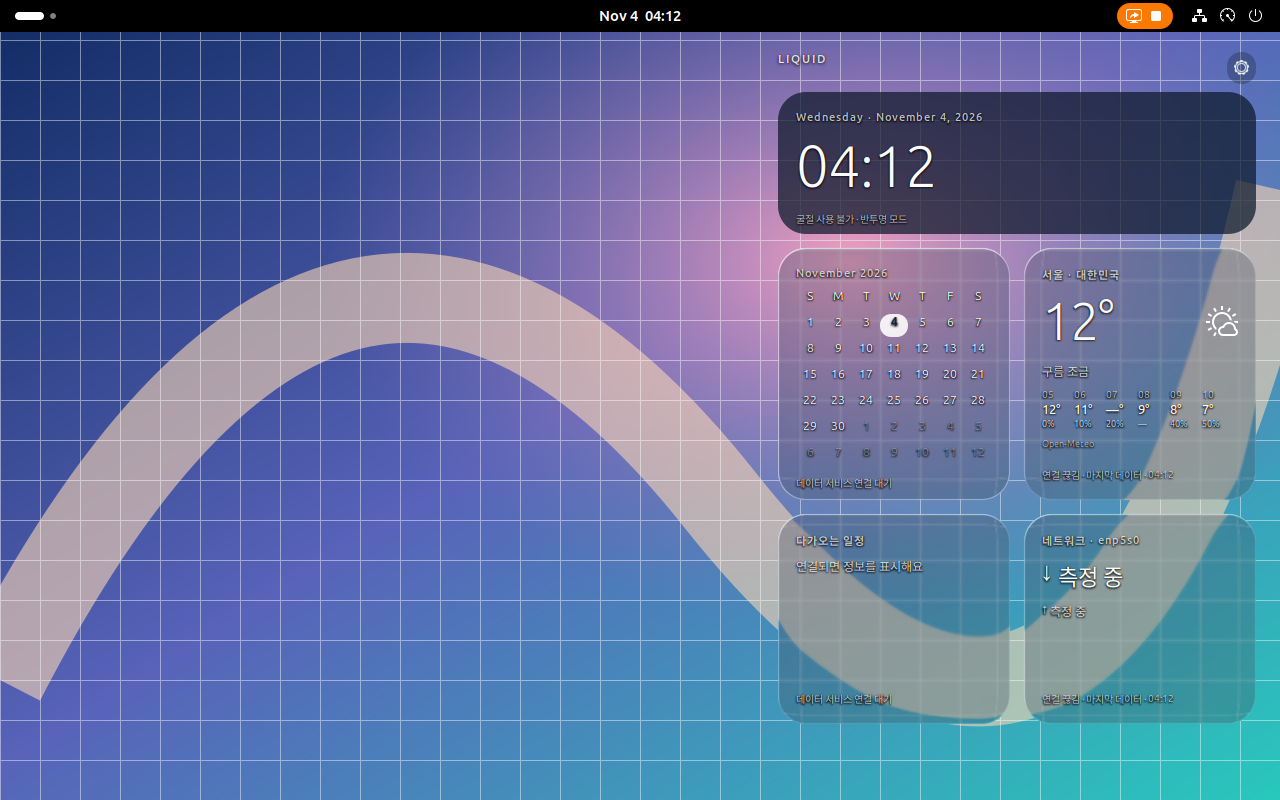
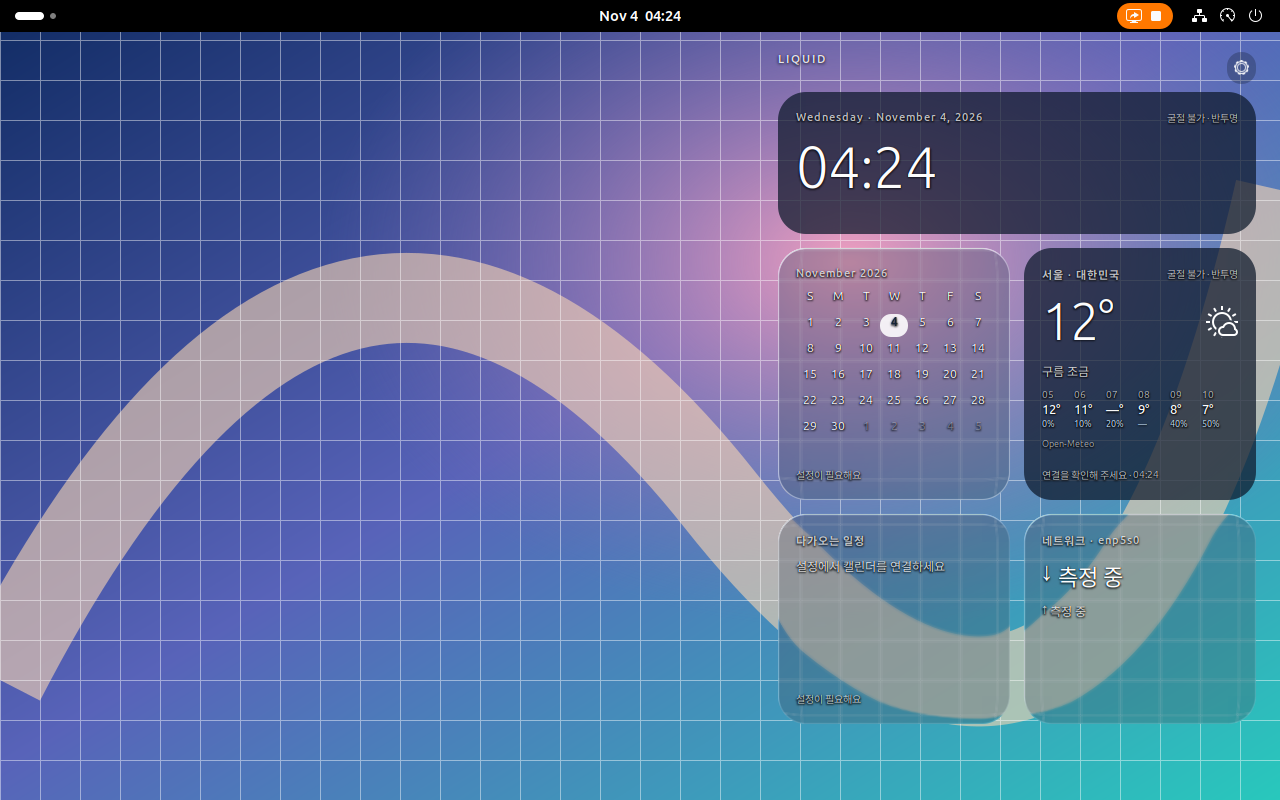
fix: preserve calendar cleanup and widget freshness

diff --git a/extension/src/shared/dataClient.ts b/extension/src/shared/dataClient.ts
@@ -19,6 +19,9 @@ export class DataClient {
     private desiredContext:{json:string;day:string;key:string}|null=null;
     private appliedContext:{json:string;day:string;key:string}|null=null;
     private contextPump:Promise<void>|null=null;
+    private providers:ProviderName[]=[];
+    private resumePending=false;
+    private resumeRetries=new Map<ProviderName,()=>void>();
     private generation=0;
     private retryCancel:(()=>void)|null=null;
     private retryDelay=1000;
@@ -54,21 +57,41 @@ export class DataClient {
         void pump.finally(()=>{if(this.contextPump===pump)this.contextPump=null;}).catch(()=>{});
         return pump;
     }
+    refreshAfterResume():void {
+        this.resumePending=true;
+        if(!this.owner||!this.token)return;
+        this.resumePending=false;
+        const owner=this.owner,generation=this.generation;
+        const current=()=>this.owner===owner&&this.generation===generation;
+        for(const name of this.providers.filter(p=>(p==='calendar'||p==='weather')&&this.store.get(p).status!=='unconfigured')){
+            this.resumeRetries.get(name)?.();this.resumeRetries.delete(name);
+            this.store.markRefreshing(name);this.changed(name);
+            const source=this.store.get(name).sourceId;
+            const relevant=()=>current()&&this.store.get(name).sourceId===source&&this.store.get(name).status==='loading';
+            const refresh=async()=>{
+                try{await this.wire.call(owner,'Refresh',[name],this.cancel);}
+                catch{if(relevant())this.resumeRetries.set(name,this.wire.schedule(60000,()=>{this.resumeRetries.delete(name);if(relevant())void refresh();}));}
+            };
+            void refresh();
+        }
+    }
     start(providers:ProviderName[]):void {
         this.stop();
         if(!providers.length || providers.some(p=>!PROVIDERS.includes(p))) throw new Error('Invalid providers');
+        this.providers=[...new Set(providers)];
         this.unwatch=this.wire.watchOwner(owner=>{this.retryDelay=1000;void this.connect(owner,[...new Set(providers)]);});
     }
     private release(owner:string,token:string):void {void this.wire.call(owner,'Unsubscribe',[token],null).catch(()=>{});}
     private disconnect():void {
         this.retryCancel?.();this.retryCancel=null;
+        for(const cancel of this.resumeRetries.values())cancel();this.resumeRetries.clear();
         this.appliedContext=null;this.contextPump=null;
         this.generation++;this.cancel.cancel();this.cancel=new Cancellation();
         this.unsignal?.();this.unsignal=null;
         if(this.owner && this.token) this.release(this.owner,this.token);
         this.token=null;this.owner=null;this.store.resetOwner();
     }
-    stop():void {this.retryDelay=1000;this.unwatch?.();this.unwatch=null;this.disconnect();this.connection('disconnected');}
+    stop():void {this.resumePending=false;this.providers=[];this.retryDelay=1000;this.unwatch?.();this.unwatch=null;this.disconnect();this.connection('disconnected');}
     private async connect(owner:string|null,providers:ProviderName[]):Promise<void> {
         if(owner && owner===this.owner) return;
         this.disconnect();this.owner=owner;
@@ -80,7 +103,10 @@ export class DataClient {
             if(!current()) return;
             try {
                 const provider=name as ProviderName;
-                if(this.store.applyChange(provider,revision,parseProviderState(provider,payload))) this.changed(provider);
+                if(this.store.applyChange(provider,revision,parseProviderState(provider,payload))) {
+                    this.resumeRetries.get(provider)?.();this.resumeRetries.delete(provider);
+                    this.changed(provider);
+                }
             } catch {this.connection('invalid-data');}
         });
         try {
@@ -95,6 +121,7 @@ export class DataClient {
             if(!current()) return;
             if(typeof raw!=='string') throw new Error('Invalid snapshot');
             this.store.acceptSnapshot(parseSnapshot(raw));this.retryDelay=1000;this.changed();this.connection('connected');
+            if(this.resumePending)this.refreshAfterResume();
         } catch {
             if(current()) {
                 this.disconnect();this.connection('unavailable');

diff --git a/tests/gnome/widgets.js b/tests/gnome/widgets.js
@@ -39,7 +39,9 @@ export async function run(){
     check(/AM|PM|오전|오후/.test(host.cards.get('clock').body.get_children()[0].get_text()),'clock ignored 12-hour preference');
     format.set_string('clock-format','24h');await Scripting.sleep(200);
     const clock=extension.stateObj.clock;const previousTimer=clock.timer;
+    const actualResume=extension.stateObj.client.refreshAfterResume;let resumeCalls=0;extension.stateObj.client.refreshAfterResume=function(){resumeCalls++;actualResume?.call(this);};
     LoginManager.getLoginManager().emit('prepare-for-sleep',false);await Scripting.sleep(100);
+    check(resumeCalls===1,'resume did not request provider refresh');
     check(clock.timer!==previousTimer && !GLib.MainContext.default().find_source_by_id(previousTimer),'resume did not replace the minute timer');
     const paints=[...host.cards.values()].map(card=>card.surface.diagnostics.inputPaints);
     host.tick(Date.parse('2026-11-04T00:00:00Z'),'America/New_York',false,'en-US',1);await Scripting.sleep(150);
@@ -97,12 +99,21 @@ export async function run(){
     fallbackCard.surface.effect.ensureTarget=()=>{throw new Error('test allocation failure');};
     fallbackCard.surface.effect.invalidate();
     await until(()=>fallbackCard.surface.fallback&&fallbackCard.mode.visible&&!fallbackCard.surface.source.visible,'allocation failure did not activate translucent fallback');
-    check(fallbackCard.mode.get_text().includes('굴절 사용 불가'),'fallback has no readable explanation');
+    check(fallbackCard.mode.get_text().includes('굴절 불가'),'fallback has no readable explanation');
     check(!fallbackCard.surface.source.visible,'failed background source still visible');
     await Scripting.sleep(100);
     const [modeX,modeY]=fallbackCard.mode.get_transformed_position();
     const [cardX,cardY]=fallbackCard.button.get_transformed_position();
     check(modeX>=cardX&&modeY+fallbackCard.mode.height<=cardY+fallbackCard.button.height-8,'fallback explanation overflows the card');
+    fallbackCard.status.set_text('연결 끊김 · 마지막 데이터 · 03:00');
+    check(fallbackCard.status.visible,'fallback hides provider error/freshness');
+    const weatherFallback=host.cards.get('weather');weatherFallback.surface.effect.ensureTarget=()=>{throw new Error('test allocation failure');};weatherFallback.surface.effect.invalidate();
+    await until(()=>weatherFallback.mode.visible,'weather fallback missing');
+    host.setConnected(true);host.updateProvider('weather',{...host.states.get('weather'),status:'stale',errorCode:'NETWORK_ERROR'});
+    check(weatherFallback.status.visible&&weatherFallback.status.get_text().includes('연결을 확인')&&/\d{2}:\d{2}/.test(weatherFallback.status.get_text()),'fallback lost actual stale weather status or success time');
+    await Scripting.sleep(100);
+    const [,wy]=weatherFallback.status.get_transformed_position();const [,wby]=weatherFallback.button.get_transformed_position();
+    check(wy+weatherFallback.status.height<=wby+weatherFallback.button.height-8,'fallback data status overflows card');
     await capture('widgets-fallback');
     await enable('ding@rastersoft.com');await enable('blur-my-shell@aunetx');
     let clicks=0;host.preferences=()=>{clicks++;};

diff --git a/extension/src/widgets/host.ts b/extension/src/widgets/host.ts
@@ -8,7 +8,7 @@ import {renderWeather} from './weather.js';
 import {cardState} from '../shared/cardState.js';
 import {clockValues} from '../shared/clockValues.js';
 import {monthGrid,eventDays} from '../shared/calendarFormat.js';
-import {selectAgenda} from '../shared/agenda.js';
+import {selectAgenda,formatAgendaWhen} from '../shared/agenda.js';
 import {computeLayout,type LayoutConfig,type LayoutResult} from '../shared/layout.js';
 const TITLES:Record<string,string>={clock:'오늘',calendar:'달력',weather:'날씨',agenda:'다가오는 일정',network:'네트워크',system:'시스템',media:'지금 재생 중'};
 export class WidgetHost {
@@ -103,7 +103,7 @@ export class WidgetHost {
             const grid=new St.BoxLayout({orientation:Clutter.Orientation.VERTICAL,style_class:'liquid-calendar-grid'});
             const days=monthGrid(clock.today.slice(0,7),this.weekStart);
             const dots=eventDays((view.data as CalendarData|null)?.events??[],days,this.zone);
-            for(let row=0;row<7;row++){
+            for(let row=0;row<1+days.length/7;row++){
                 const line=new St.BoxLayout({x_expand:true});
                 for(let column=0;column<7;column++){
                     const day=days[(row-1)*7+column];
@@ -133,9 +133,9 @@ export class WidgetHost {
         }
         if(id==='agenda'){
             const data=view.data as CalendarData;
-            const events=selectAgenda(data.events,this.now,clock.today);
+            const events=selectAgenda(data.events,this.now,clock.today,this.zone);
             if(!events.length)card.body.add_child(label('예정된 일정 없음'));
-            for(const event of events){card.body.add_child(label(event.title||'제목 없는 일정','liquid-agenda-title'));card.body.add_child(label(event.allDay?'종일':new Intl.DateTimeFormat(this.locale,{timeZone:this.zone,hour:'2-digit',minute:'2-digit',hourCycle:this.hour12?'h12':'h23'}).format(Date.parse(event.start)),'liquid-agenda-time'));}
+            for(const event of events){card.body.add_child(label(event.title||'제목 없는 일정','liquid-agenda-title'));card.body.add_child(label(formatAgendaWhen(event,this.zone,this.locale,this.hour12),'liquid-agenda-time'));}
         }else if(id==='weather'){
             const data=view.data as ProviderMap['weather']['data'];if(!data)return;
             renderWeather(card,data,this.scale,this.locale,this.hour12);

diff --git a/extension/src/shared/agenda.ts b/extension/src/shared/agenda.ts
@@ -1,9 +1,23 @@
 import type {CalendarEvent} from '../types.js';
-/** Calendar expansion supplies a finite view; end is exclusive for both event types. */
-export function selectAgenda(events:CalendarEvent[],nowMs:number,today:string):CalendarEvent[]{
+function localStart(event:CalendarEvent,timeZone:string):string{
+    if(event.allDay)return `${event.start}T00:00:00`;
+    const parts=new Intl.DateTimeFormat('en-CA',{timeZone,year:'numeric',month:'2-digit',day:'2-digit',hour:'2-digit',minute:'2-digit',second:'2-digit',hourCycle:'h23'}).formatToParts(Date.parse(event.start));
+    const part=(name:string)=>parts.find(p=>p.type===name)!.value;
+    return `${part('year')}-${part('month')}-${part('day')}T${part('hour')}:${part('minute')}:${part('second')}`;
+}
+/** Calendar supplies a month/agenda union; apply the agenda's local-day horizon here. */
+export function selectAgenda(events:CalendarEvent[],nowMs:number,today:string,timeZone='UTC'):CalendarEvent[]{
+    const limit=new Date(`${today}T00:00:00Z`);limit.setUTCDate(limit.getUTCDate()+30);
+    const horizon=limit.toISOString().slice(0,10);
     const ongoing=(e:CalendarEvent)=>e.allDay?e.start<=today:Date.parse(e.start)<=nowMs;
-    return events.filter(e=>e.allDay?e.end>today:Date.parse(e.end)>nowMs)
+    return events.filter(e=>(e.allDay?e.end>today:Date.parse(e.end)>nowMs)&&(ongoing(e)||localStart(e,timeZone).slice(0,10)<horizon))
         .sort((a,b)=>Number(ongoing(b))-Number(ongoing(a))||
-            (a.allDay||b.allDay?a.start.localeCompare(b.start):Date.parse(a.start)-Date.parse(b.start))||
+            (a.allDay||b.allDay?localStart(a,timeZone).localeCompare(localStart(b,timeZone)):Date.parse(a.start)-Date.parse(b.start))||
             a.uid.localeCompare(b.uid)||a.occurrenceKey.localeCompare(b.occurrenceKey)).slice(0,3);
+}
+export function formatAgendaWhen(event:CalendarEvent,timeZone:string,locale:string,hour12:boolean):string{
+    const at=event.allDay?Date.parse(`${event.start}T12:00:00Z`):Date.parse(event.start);
+    const date=new Intl.DateTimeFormat(locale,{timeZone:event.allDay?'UTC':timeZone,month:'short',day:'numeric',weekday:'short'}).format(at);
+    const time=event.allDay?'종일':new Intl.DateTimeFormat(locale,{timeZone,hour:'2-digit',minute:'2-digit',hourCycle:hour12?'h12':'h23'}).format(at);
+    return `${date} · ${time}`;
 }

diff --git a/extension/tests/client.test.ts b/extension/tests/client.test.ts
@@ -95,3 +95,19 @@ test('calendar context is sent before subscribe, serialized on change and refres
  client.setCalendarContext({...context,timeZone:'America/New_York'},'2026-11-05');assert.equal(wire.pending.length,0);old.resolve([]);await tick();
  const last=wire.take('SetCalendarContext');assert.ok(String(last.args[0]).includes('America/New_York'));last.resolve([]);await tick();client.stop();
 });
+test('resume refreshes subscribed remote data, marks old data pending, retries failure and cancels on disable',async()=>{
+ const wire=new Wire(),store=new ProviderStore(),client=new DataClient(wire,store,()=>{},()=>{});
+ client.start(['calendar','weather','system']);wire.owner!(':1.1');wire.take('Subscribe').resolve(['token']);await tick();
+ const data=fixture();wire.take('GetSnapshot').resolve([JSON.stringify(data)]);await tick();
+ client.refreshAfterResume();
+ const requests=wire.pending.filter(p=>p.method==='Refresh');assert.deepEqual(requests.map(p=>p.args[0]).sort(),['calendar','weather']);
+ assert.equal(store.get('weather').status,'loading');assert.equal(store.get('weather').updatedAt,data.weather.updatedAt);assert.deepEqual(store.get('weather').data,data.weather.data);
+ wire.take('Refresh').resolve([]);wire.take('Refresh').reject(new Error('rate limited'));await tick();assert.equal(wire.retry(),60000);
+ wire.take('Refresh').reject(new Error('temporary'));await tick();assert.equal(wire.scheduled.size,1);
+ wire.changes.get(':1.1')!('weather',10,JSON.stringify({...data.weather,status:'ok',errorCode:null}));assert.equal(store.get('weather').status,'ok');
+ client.stop();assert.equal(wire.scheduled.size,0);
+});
+test('resume does not refresh hidden or unconfigured providers',async()=>{
+ const wire=new Wire(),client=new DataClient(wire,new ProviderStore(),()=>{},()=>{});client.start(['system']);wire.owner!(':1.1');wire.take('Subscribe').resolve(['token']);await tick();wire.take('GetSnapshot').resolve([JSON.stringify(fixture())]);await tick();
+ client.refreshAfterResume();assert.equal(wire.pending.length,0);client.stop();
+});

diff --git a/extension/src/widgets/card.ts b/extension/src/widgets/card.ts
@@ -17,11 +17,13 @@ export class GlassCard {
     readonly body=new St.BoxLayout({orientation:Clutter.Orientation.VERTICAL,style_class:'liquid-body',y_expand:true});
     readonly title:St.Label;
     readonly status=label('','liquid-status');
-    readonly mode=label('굴절 사용 불가 · 반투명 모드','liquid-status');
+    readonly mode=label('굴절 불가 · 반투명','liquid-status');
     constructor(readonly id:string,monitor:number,title:string,action:()=>void){
         this.surface=new GlassSurface(monitor,()=>this.applyAppearance());
         this.title=label(title,'liquid-title');
-        this.content.add_child(this.title);this.content.add_child(this.body);this.content.add_child(this.status);this.mode.hide();this.content.add_child(this.mode);
+        const heading=new St.BoxLayout({x_expand:true});
+        heading.add_child(this.title);this.mode.x_expand=false;this.mode.x_align=Clutter.ActorAlign.END;this.mode.hide();heading.add_child(this.mode);
+        this.content.add_child(heading);this.content.add_child(this.body);this.content.add_child(this.status);
         this.button=new St.Button({child:this.content,reactive:true,can_focus:true,track_hover:true,style_class:'liquid-card',accessible_name:title});
         this.button.connect('clicked',action);this.surface.actor.add_child(this.button);
     }
@@ -35,7 +37,6 @@ export class GlassCard {
     }
     private applyAppearance():void{
         this.mode.visible=this.surface.fallback;
-        this.status.visible=!this.surface.fallback;
         this.button.set_style(`font-size:${14*this.scale}px;background-color:rgba(12,24,42,${this.lowPower||this.surface.fallback?Math.max(.72,this.opacity):this.opacity});`);
     }
     clear():void{this.body.destroy_all_children();}

diff --git a/tests/gnome/lifecycle.js b/tests/gnome/lifecycle.js
@@ -5,6 +5,7 @@ export const METRICS={};
 async function until(fn){for(let i=0;i<200;i++){if(fn())return;await Scripting.sleep(30);}throw new Error('lifecycle transition did not settle');}
 function rss(){const [ok,bytes]=GLib.file_get_contents('/proc/self/status');if(!ok)throw new Error('RSS unavailable');return Number(new TextDecoder().decode(bytes).match(/^VmRSS:\s+(\d+)/m)[1]);}
 export async function run(){
+ const keepAlive=GLib.timeout_add(GLib.PRIORITY_DEFAULT,10000,()=>{void Scripting.waitTestWindows();return GLib.SOURCE_CONTINUE;});
  Main.overview.hide();await Scripting.sleep(1500);await enable('ding@rastersoft.com');await enable('blur-my-shell@aunetx');await enable('ubuntu-dock@ubuntu.com');
  const uuid='liquid-widgets@local',ext=Main.extensionManager.lookup(uuid);ext.stateObj.settings.set_strv('visible',['clock','calendar','weather','agenda','network','system','media']);
  const daemon=Gio.Subprocess.new([GLib.getenv('LIQUID_TEST_DAEMON')],Gio.SubprocessFlags.NONE),samples=[];
@@ -20,5 +21,5 @@ export async function run(){
    const sample={cycles:block*20,rssKiB:rss(),roots:global.window_group.get_children().filter(a=>a.name==='liquid-widgets-layer').length,cards:ext.stateObj.host.diagnostics.cards,offscreenBytes:[...ext.stateObj.host.cards.values()].reduce((n,c)=>n+c.surface.diagnostics.textureBytes,0)};samples.push(sample);print(`LIFECYCLE_MEMORY: ${JSON.stringify(sample)}`);
    GLib.file_set_contents(`${GLib.getenv('LIQUID_TEST_OUTPUT')}/lifecycle-memory.json`,JSON.stringify(samples,null,2));
   }
- }finally{daemon.force_exit();}
+ }finally{GLib.Source.remove(keepAlive);daemon.force_exit();}
 }

diff --git a/extension/tests/agenda.test.ts b/extension/tests/agenda.test.ts
@@ -17,3 +17,16 @@ test('equal starts have stable uid and occurrence ordering without mutating inpu
  const values=['b','a'].map(id=>event(id,'2026-11-04T11:00:00+09:00','2026-11-04T12:00:00+09:00'));
  assert.deepEqual(selectAgenda(values,now,'2026-11-04').map(e=>e.uid),['a','b']);assert.equal(values[0]!.uid,'b');
 });
+test('agenda applies its own 30-day display-zone horizon and keeps ongoing events',()=>{
+ const values=[event('outside','2026-12-04','2026-12-05',true),event('boundary','2026-12-01T00:00:00+09:00','2026-12-01T01:00:00+09:00'),event('inside','2026-11-30T23:00:00+09:00','2026-12-01T01:00:00+09:00'),event('ongoing','2026-10-01','2026-11-03',true)];
+ assert.deepEqual(selectAgenda(values,Date.parse('2026-11-01T09:00:00+09:00'),'2026-11-01','Asia/Seoul').map(e=>e.uid),['ongoing','inside']);
+});
+test('mixed all-day and timed starts sort in the display zone',()=>{
+ const values=[event('one-am','2026-11-04T16:00:00Z','2026-11-04T17:00:00Z'),event('all-day','2026-11-05','2026-11-06',true)];
+ assert.deepEqual(selectAgenda(values,now,'2026-11-04','Asia/Seoul').map(e=>e.uid),['all-day','one-am']);
+});
+test('agenda captions identify dates for timed and all-day events',async()=>{
+ const {formatAgendaWhen}=await import('../src/shared/agenda.js');
+ assert.match(formatAgendaWhen(event('a','2026-11-04T16:00:00Z','2026-11-04T17:00:00Z'),'Asia/Seoul','en-US',false),/Nov 5.*01:00/);
+ assert.match(formatAgendaWhen(event('b','2026-11-12','2026-11-13',true),'Asia/Seoul','en-US',false),/Nov 12.*종일/);
+});

diff --git a/extension/src/clock.ts b/extension/src/clock.ts
@@ -15,12 +15,12 @@ export class ClockController {
     get hour12():boolean{return this.settings.get_string('clock-format')==='12h';}
     get locale():string {const raw=(GLib.get_language_names()[0]??'en_US').split('.')[0]!.split('@')[0]!;return raw==='C'||raw==='POSIX'?'en-US':raw.replaceAll('_','-');}
     get weekStart():number{return Shell.util_get_week_start();}
-    start(onTick:(nowMs:number)=>void):void {
+    start(onTick:(nowMs:number)=>void,onResume:()=>void=()=>{}):void {
         this.callback=onTick;
         this.signals.push({object:this.clock,id:this.clock.connect('notify::clock',()=>this.tick())});
         this.signals.push({object:this.clock,id:this.clock.connect('notify::timezone',()=>this.tick())});
         this.signals.push({object:this.settings,id:this.settings.connect('changed::clock-format',()=>this.tick())});
-        this.signals.push({object:this.login,id:this.login.connect('prepare-for-sleep',(_object:unknown,sleeping:boolean)=>{if(!sleeping)this.tick();})});
+        this.signals.push({object:this.login,id:this.login.connect('prepare-for-sleep',(_object:unknown,sleeping:boolean)=>{if(!sleeping){this.tick();onResume();}})});
         this.tick();
     }
     private tick():void {

diff --git a/extension/src/extension.ts b/extension/src/extension.ts
@@ -37,7 +37,7 @@ export default class LiquidWidgets extends Extension {
         this.clock=new ClockController();
         this.clock.start(now=>{const clock=this.clock!;this.host?.tick(now,clock.timeZone,clock.hour12,clock.locale,clock.weekStart);
             const today=clockValues(now,clock.timeZone,clock.hour12,clock.locale).today;
-            this.client?.setCalendarContext({month:today.slice(0,7),timeZone:clock.timeZone,weekStart:clock.weekStart},today);});
+            this.client?.setCalendarContext({month:today.slice(0,7),timeZone:clock.timeZone,weekStart:clock.weekStart},today);},()=>this.client?.refreshAfterResume());
         this.layout();
     }
     private syncProviders():void{

diff --git a/extension/src/shared/calendarFormat.ts b/extension/src/shared/calendarFormat.ts
@@ -5,7 +5,8 @@ export function monthGrid(month:string,weekStart:number):CalendarDay[]{
     const [year,m]=month.split('-').map(Number) as [number,number];
     const first=new Date(Date.UTC(year,m-1,1));
     const offset=(first.getUTCDay()-weekStart+7)%7;
-    return Array.from({length:42},(_,index)=>{
+    const length=Math.ceil((offset+new Date(Date.UTC(year,m,0)).getUTCDate())/7)*7;
+    return Array.from({length},(_,index)=>{
         const date=new Date(Date.UTC(year,m-1,index-offset+1));
         return{iso:date.toISOString().slice(0,10),day:date.getUTCDate(),inMonth:date.getUTCMonth()===m-1};
     });

diff --git a/extension/src/shared/providerStore.ts b/extension/src/shared/providerStore.ts
@@ -19,6 +19,10 @@ export class ProviderStore {
         this.states[name]=state; this.revisions.set(name,revision);
         return true;
     }
+    markRefreshing<K extends ProviderName>(name:K):void {
+        const state=this.states[name];
+        if(state.status!=='unconfigured')this.states[name]={...state,status:'loading',errorCode:null} as ProviderMap[K];
+    }
     // Retain values for the disconnected UI; revision ownership never crosses owners.
     resetOwner():void { this.revisions.clear(); }
     get<K extends ProviderName>(name:K):ProviderMap[K] { return this.states[name]; }
